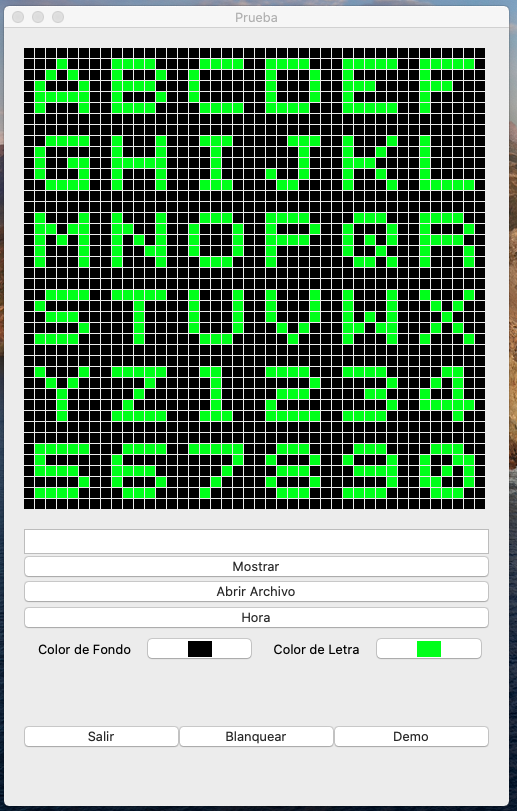
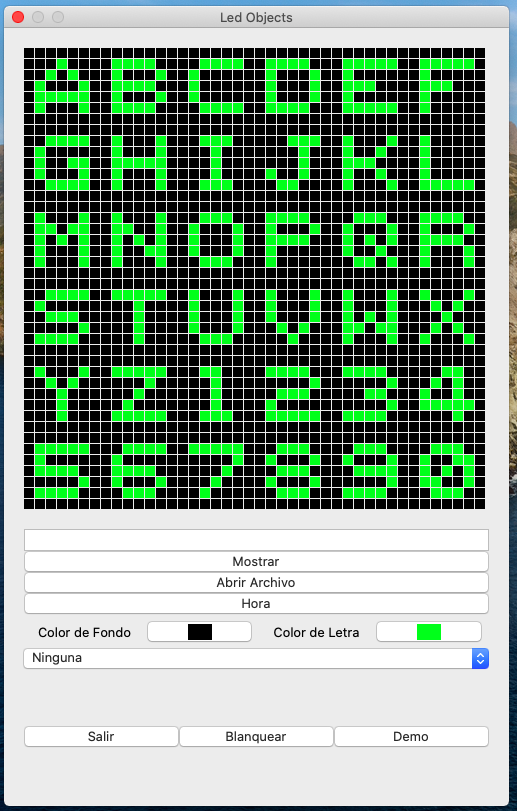
Trabajo terminado, entra en fase de mantenimiento.

diff --git a/main.py b/main.py
@@ -1,14 +1,16 @@
-import wx
 from datetime import datetime
+
+import wx
 from Clases import matriz_led
 
 TAM_MATRIZ = 6
 
 
-# TODO: tamaño fijo de ventana style= wx.SYSTEM_MENU | wx.CAPTION | wx.CLOSE_BOX
 class Ventana(wx.Frame):
+    """Ventana principal del programa que contiene el resto de los widgets"""
     def __init__(self):
-        super().__init__(None, -1, title="Led Objects", style= wx.SYSTEM_MENU | wx.CAPTION | wx.CLOSE_BOX, size=(505, 800))
+        super().__init__(None, -1, title="Led Objects", style=wx.SYSTEM_MENU | wx.CAPTION | wx.CLOSE_BOX,
+                         size=(505, 800))
         self.panel = wx.Panel(self)
         # Solo la matriz y los Sizers quedan sueltos como atributos de clase
         self.matrizBox = matriz_led.MatrizLed(padre=self.panel, tam_matriz=TAM_MATRIZ)
@@ -23,21 +25,24 @@ class Ventana(wx.Frame):
         """Metodo que separa la lógica de inicializacion de la UI"""
         self.matrizBox.inicializarMatriz(' ')
         # Todos los widgets como botones, cajas y color picker van en este diccionario
-        self.widgets = {}
+        self.widgets = {'entradaTexto': wx.TextCtrl(self.panel, style=wx.TE_CENTRE),
+                        'temporizador': wx.Timer(),
+                        'tempTitilar': wx.Timer(),
+                        'btnCerrar': wx.Button(self.panel, label="Salir"),
+                        'btnBlanquear': wx.Button(self.panel, label="Blanquear"),
+                        'btnDemo': wx.Button(self.panel, label="Demo"),
+                        'btnTextoPers': wx.Button(self.panel, label="Mostrar"),
+                        'btnAbrirArch': wx.Button(self.panel, label="Abrir Archivo"),
+                        'btnHora': wx.Button(self.panel, label="Hora"),
+                        'etiquetaClrFondo': wx.StaticText(self.panel, label="Color de Fondo",
+                                                          style=wx.ALIGN_CENTRE_HORIZONTAL),
+                        'etiquetaClrLetra': wx.StaticText(self.panel, label="Color de Letra",
+                                                          style=wx.ALIGN_CENTRE_HORIZONTAL),
+                        'clrFondo': wx.ColourPickerCtrl(self.panel, colour=wx.BLACK),
+                        'clrLetra': wx.ColourPickerCtrl(self.panel, colour=wx.GREEN),
+                        'choTitilar': wx.Choice(self.panel, choices=['Ninguna', 'Lenta', 'Rápida'])}
 
-        self.widgets['entradaTexto'] = wx.TextCtrl(self.panel,  style=wx.TE_CENTRE)
-        self.widgets['temporizador'] = wx.Timer()
-        self.widgets['btnCerrar'] = wx.Button(self.panel, label="Salir")
-        self.widgets['btnBlanquear'] = wx.Button(self.panel, label="Blanquear")
-        self.widgets['btnDemo'] = wx.Button(self.panel, label="Demo")
-        self.widgets['btnTextoPers'] = wx.Button(self.panel, label="Mostrar")
-        self.widgets['btnAbrirArch'] = wx.Button(self.panel, label="Abrir Archivo")
-        self.widgets['btnHora'] = wx.Button(self.panel, label="Hora")
-        self.widgets['etiquetaClrFondo'] = wx.StaticText(self.panel, label="Color de Fondo", style=wx.ALIGN_CENTRE_HORIZONTAL)
-        self.widgets['etiquetaClrLetra'] = wx.StaticText(self.panel, label="Color de Letra", style=wx.ALIGN_CENTRE_HORIZONTAL)
-        self.widgets['clrFondo'] = wx.ColourPickerCtrl(self.panel, colour=wx.BLACK)
-        self.widgets['clrLetra'] = wx.ColourPickerCtrl(self.panel, colour=wx.GREEN)
-
+        # Todos los bind de eventos
         self.widgets['entradaTexto'].SetMaxLength(36)
         self.widgets['entradaTexto'].Bind(wx.EVT_TEXT, self.dibujar_de_caja)
         self.widgets['btnCerrar'].Bind(wx.EVT_BUTTON, self.cerrar)
@@ -47,10 +52,12 @@ class Ventana(wx.Frame):
         self.widgets['btnAbrirArch'].Bind(wx.EVT_BUTTON, self.abrirarchivo)
         self.widgets['btnHora'].Bind(wx.EVT_BUTTON, self.hora)
         self.widgets['temporizador'].Bind(wx.EVT_TIMER, self.actualizarhora)
+        self.widgets['tempTitilar'].Bind(wx.EVT_TIMER, self.titilar)
+        self.widgets['choTitilar'].Bind(wx.EVT_CHOICE, self.iniciar_titilar)
         self.widgets['clrFondo'].Bind(wx.EVT_COLOURPICKER_CHANGED, self.cambiarColor)
         self.widgets['clrLetra'].Bind(wx.EVT_COLOURPICKER_CHANGED, self.cambiarColor)
 
-
+        # Todos los Add a los sizers para armar la ventana.
         self.VBoxPrincipal.Add(self.matrizBox, wx.ID_ANY, wx.ALL | wx.EXPAND, 20)
         self.HBoxColor.Add(self.widgets['etiquetaClrFondo'], wx.ID_ANY, wx.ALL | wx.EXPAND, 10)
         self.HBoxColor.Add(self.widgets['clrFondo'], wx.ID_ANY, wx.EXPAND)
@@ -59,22 +66,25 @@ class Ventana(wx.Frame):
         self.VBoxMenu.Add(self.widgets['entradaTexto'], wx.ID_ANY, wx.LEFT | wx.RIGHT | wx.EXPAND, 20)
         self.VBoxMenu.Add(self.widgets['btnTextoPers'], wx.ID_ANY, wx.LEFT | wx.RIGHT | wx.EXPAND, 20)
         self.VBoxMenu.Add(self.widgets['btnAbrirArch'], wx.ID_ANY, wx.LEFT | wx.RIGHT | wx.EXPAND, 20)
-        self.VBoxMenu.Add(self.widgets['btnHora'], wx.ID_ANY,  wx.LEFT | wx.RIGHT | wx.EXPAND, 20)
-        self.VBoxMenu.Add(self.HBoxColor, wx.ID_ANY,  wx.LEFT | wx.RIGHT | wx.EXPAND, 20)
+        self.VBoxMenu.Add(self.widgets['btnHora'], wx.ID_ANY, wx.LEFT | wx.RIGHT | wx.EXPAND, 20)
+        self.VBoxMenu.Add(self.HBoxColor, wx.ID_ANY, wx.LEFT | wx.RIGHT | wx.EXPAND, 20)
+        self.VBoxMenu.Add(self.widgets['choTitilar'], wx.ID_ANY, wx.LEFT | wx.RIGHT | wx.EXPAND, 20)
         self.Botonera.Add(self.widgets['btnCerrar'], wx.ID_ANY, wx.EXPAND, border=5)
         self.Botonera.Add(self.widgets['btnBlanquear'], wx.ID_ANY, wx.EXPAND, border=5)
         self.Botonera.Add(self.widgets['btnDemo'], wx.ID_ANY, wx.EXPAND, border=5)
         self.VBoxPrincipal.Add(self.VBoxMenu, wx.ID_ANY, wx.EXPAND)
-        self.VBoxPrincipal.Add(self.Botonera, wx.ID_ANY,  wx.LEFT | wx.RIGHT | wx.EXPAND, 20)
+        self.VBoxPrincipal.Add(self.Botonera, wx.ID_ANY, wx.LEFT | wx.RIGHT | wx.EXPAND, 20)
         self.panel.SetSizer(self.VBoxPrincipal)
         self.Centre()
 
     # noinspection PyUnusedLocal
     def cerrar(self, event):
+        """al ser llamado cierra la ventana principal"""
         self.Close()
 
     # noinspection PyUnusedLocal
     def blanquear(self, event):
+        """limpiar la matriz y la caja de texto de cualquier contenido"""
         self.matrizBox.blanquearMatriz()
         self.widgets['entradaTexto'].Clear()
 
@@ -138,11 +148,28 @@ class Ventana(wx.Frame):
             except IOError:
                 wx.MessageBox(f"No se puede abrir el archivo {fileDialog.GetFilename()}.")
 
-
     def cambiarColor(self, event):
         self.matrizBox.repintarMatriz(self.widgets['clrFondo'].GetColour(), self.widgets['clrLetra'].GetColour())
 
+    def iniciar_titilar(self, event):
+        """Cuando se dispara el EVT_CHOICE al seleccionar una opción de la caja se inicia
+        o detiene el tempTitilar"""
+        valorChoice = self.widgets['choTitilar'].GetString(self.widgets['choTitilar'].GetSelection())
+        if valorChoice == 'Lenta':
+            self.widgets['tempTitilar'].Start(milliseconds=250)
+        elif valorChoice == 'Rápida':
+            self.widgets['tempTitilar'].Start(milliseconds=125)
+        else:
+            self.widgets['tempTitilar'].Stop()
 
+    def titilar(self, event):
+        """metodo que apaga o enciende alternativamente la matriz de acuerdo a lo seleccionado
+        en el choice titilar"""
+        textoAct = self.matrizBox.obtenerContenido()
+        if self.matrizBox.obtenerEstado():
+            self.matrizBox.blanquearMatriz()
+        else:
+            self.matrizBox.dibujarMatriz(textoAct)
 
 
 def main():

diff --git a/Clases/matriz_led.py b/Clases/matriz_led.py
@@ -5,11 +5,13 @@ from Clases import caracter_led
 
 class MatrizLed(wx.GridSizer):
     """Nuevo Widget personalizado que crea una matriz tipo led en pantalla"""
+
     def __init__(self, padre: wx.Object, tam_matriz: int, texto_inicial: str = ''):
         super().__init__(rows=tam_matriz, cols=tam_matriz, hgap=1, vgap=1)
         self.TAM_MATRIZ = tam_matriz
         self.padre = padre
         self.caracteres = []
+        self.encendido = False
         if texto_inicial != '':
             self.inicializarMatriz(texto_inicial)
         else:
@@ -19,16 +21,17 @@ class MatrizLed(wx.GridSizer):
         """Recibe un texto, lo guarda en el objeto y lo muestra en la matriz."""
         self.texto = texto
         texto = texto.ljust(self.TAM_MATRIZ * self.TAM_MATRIZ)
-        for row in range(self.TAM_MATRIZ):
-            for col in range(self.TAM_MATRIZ):
-                elem = caracter_led.Caracter(self.padre, texto[col + (row * self.TAM_MATRIZ)].upper())
-                self.caracteres.append(elem)
-                self.Add(elem, wx.EXPAND)
+        for index in range(self.TAM_MATRIZ ** 2):
+            elem = caracter_led.Caracter(self.padre, texto[index].upper())
+            self.caracteres.append(elem)
+            self.Add(elem, wx.EXPAND)
+        self.encendido = True
 
     def blanquearMatriz(self):
         """Cuando se invoca muestra la matriz en blanco"""
         for caracter in self.caracteres:
             caracter.ApagarCaracter()
+        self.encendido = False
 
     def dibujarMatriz(self, texto: str):
         """Repinta los LED para mostrar el caracter"""
@@ -36,9 +39,18 @@ class MatrizLed(wx.GridSizer):
         texto = texto.ljust(self.TAM_MATRIZ * self.TAM_MATRIZ)
         for caracter, item in zip(self.caracteres, texto):
             caracter.DibujarCaracter(item)
+        self.encendido = True
 
-    def repintarMatriz(self, colorFondo : wx.Colour, colorLetra : wx.Colour):
+    def repintarMatriz(self, colorFondo: wx.Colour, colorLetra: wx.Colour):
         """Envia el wx.Colour como mensaje a los carateres"""
         for caracter in self.caracteres:
             caracter.CambiarColorFondo(colorFondo)
             caracter.CambiarColorLetra(colorLetra)
+
+    def obtenerContenido(self):
+        """Por similitud a los widgets predefinidos este metodo devuelve el contenido
+        que se encuentra mostrando el widget en este momento"""
+        return self.texto
+
+    def obtenerEstado(self):
+        return self.encendido

diff --git a/Clases/caracter_led.py b/Clases/caracter_led.py
@@ -13,6 +13,7 @@ class Caracter(wx.Panel):
         self.color_fondo = color_fondo  # Color de fondo, de los buit-in en wxpython
         self.color_letra = color_letra  # Color de letra, de los buit-in en wxpython
         self.paneles = []  # Lista que guarda las referencias a los paneles de colores
+        self.estado = None
         self.InitUI()
 
     def InitUI(self):
@@ -27,7 +28,7 @@ class Caracter(wx.Panel):
         self.DibujarCaracter(self.caracter)
         self.SetSizer(grilla)
 
-    def CambiarColorFondo(self, color : wx.Colour):
+    def CambiarColorFondo(self, color: wx.Colour):
         """Cambia el color de fondo guardado en el caracter y lo refresca"""
         self.color_fondo = color
         self.DibujarCaracter(self.estado)
@@ -55,7 +56,8 @@ class Caracter(wx.Panel):
                 led.SetBackgroundColour(self.color_fondo)
             led.Refresh()
 
-    def ValoresLED(self, caracter: str) -> list:
+    @staticmethod
+    def ValoresLED(caracter: str) -> list:
         """Devuelve una lista ceros y unos para cada caracter pre cargado,
         en caso de error devuelve !!!"""
         try:

diff --git a/readme.md b/readme.md
@@ -8,3 +8,10 @@ Dibuja un texto en una matriz de paneles de colores al estilo de un
 cartel de LED. Sin mas preambulos:
 
 ![alt text](https://raw.githubusercontent.com/carlosmgc2003/led-objects/master/img/led-objects.png)
+
+#### Requerimientos
+1. Poder mostrar en la pantalla de led un texto ingresado por el usuario. Dicho texto se va a considerar bien formado (es decir, con los caracteres aceptados solamente y sin espacios extras).
+2. Obtener la línea de texto de un archivo definido, llamado data.txt. También se va a considerar bien formado como en el caso 1.
+3. Mostrar la pantalla de forma titilante, con el texto establecido. La velocidad default tiene que se alguna que logre leer el texto.
+4. Poder configurar la velocidad que titila. No importa la magnitud, sino mostrar algunos casos con velocidad diferentes.
+5. Obtener la hora actual y mostrarla en la pantalla de led. Solo HH:MM y sin actualizar.
